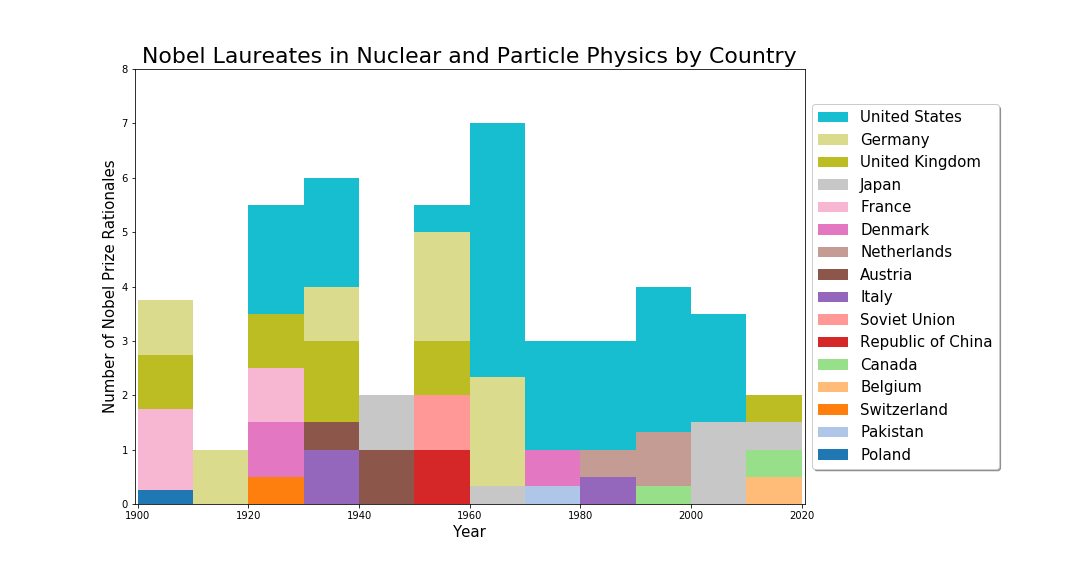
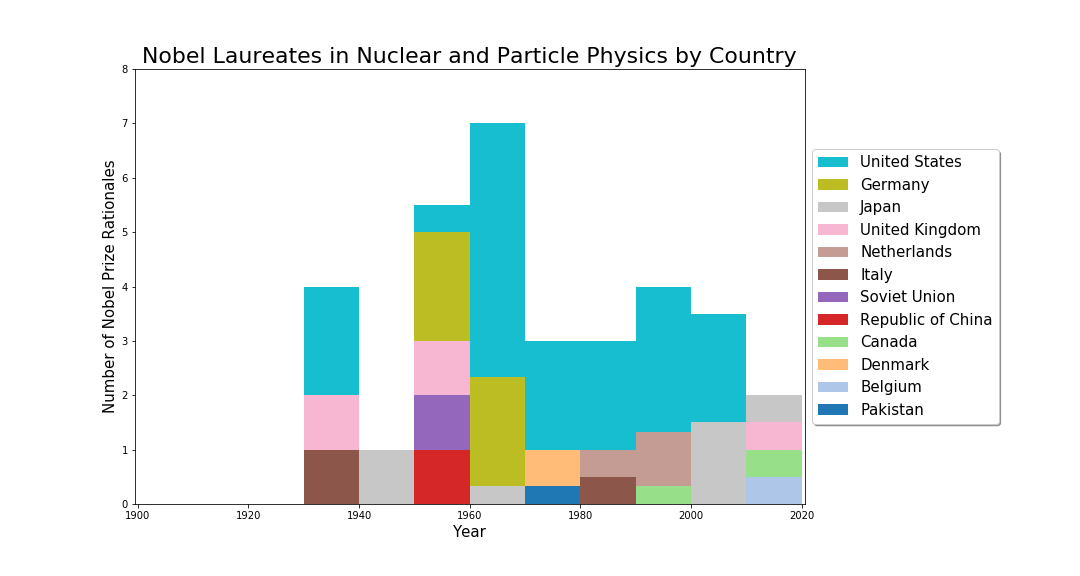
modifications to prize counting, excluding early quantum mechanics prizes

Changed region(s): [[0.1222, 0.3125, 0.6111, 0.875], [0.6722, 0.4688, 0.9167, 0.875], [0.7333, 0.1875, 0.9167, 0.4062]]

diff --git a/random_things/blog_byCountry.html b/random_things/blog_byCountry.html
@@ -53,7 +53,14 @@ counts as a reason?), but I think it makes sense to me and doesn't change the bi
 <br>
 <br>
 
-All that said, the plot itself is pretty simple. The structure of the "golden days" of particle
+All that said, the plot itself is pretty simple. First, you notice that the first prizes came in the 1930s
+because my counting of proper particle physics prizes started with the discoveries of
+positrons and neutrons. One could certainly argue that early developments in quantum mechanics,
+such as Planck's prize in 1918 and de Broglie's prize in 1929, were crucially important
+for the emergence of particle physics, but they also laid the foundations for all branches
+of modern physics, so I decide not to include them for this particular plot. With that said,
+we now take a look at these unambiguous particle physics Nobel prizes. One can easily
+see that the structure of the "golden days" of particle
 physics from the 50s to the 70s is obvious. This is the period of them when a lot of particles and
 symmetry rules were being discovered and the coherent picture of what we now know as the Standard Model
 of particle physics
